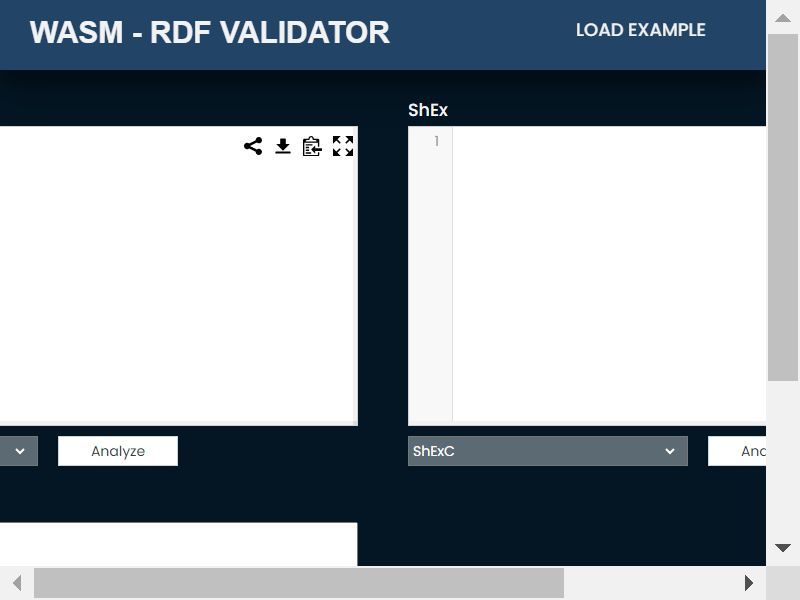
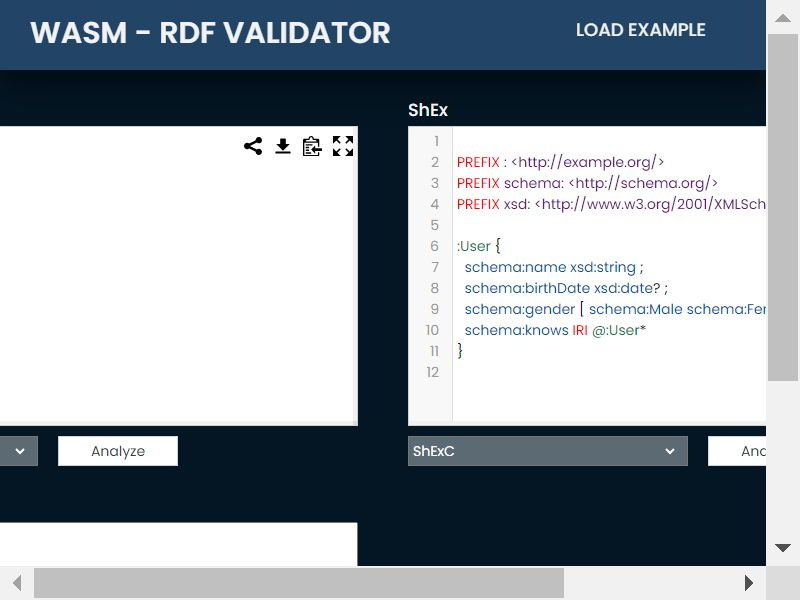
tests base

Changed region(s): [[0.5312, 0.39, 0.9688, 0.63], [0.5625, 0.24, 0.9688, 0.36], [0.0312, 0.03, 0.5, 0.09]]

diff --git a/assembly-rdf-shape/static/index.html b/assembly-rdf-shape/static/index.html
@@ -1,27 +1,61 @@
 <!DOCTYPE html>
 <html lang="en">
-<head>
-    <meta charset="UTF-8">
-    <meta name="viewport" content="width=device-width, initial-scale=1.0">
+  <head>
+    <meta charset="UTF-8" />
+    <meta name="viewport" content="width=device-width, initial-scale=1.0" />
+    <link rel="icon" href="favicon.ico" type="image/x-icon" />
+    <link rel="icon" type="image/jpg" href="logo.jpg" />
     <!-- <link rel="stylesheet" href="https://cdn.jsdelivr.net/npm/bootstrap@4.0.0/dist/css/bootstrap.min.css" integrity="sha384-Gn5384xqQ1aoWXA+058RXPxPg6fy4IWvTNh0E263XmFcJlSAwiGgFAW/dAiS6JXm" crossorigin="anonymous"> -->
-    <link href='https://cdn.jsdelivr.net/npm/yashe/dist/yashe.min.css' rel='stylesheet' type='text/css'/>
-    <script src='https://cdn.jsdelivr.net/npm/yashe/dist/yashe.bundled.min.js'></script>
-    <link href="https://perfectkb.github.io/yate/dist/yate.min.css"
-    rel="stylesheet" type="text/css" />
-    <link href="https://perfectkb.github.io/yate/doc/doc.min.css"
-    rel="stylesheet" type="text/css" />
-    <link href="https://cdn.jsdelivr.net/npm/bootstrap@5.3.3/dist/css/bootstrap.min.css" rel="stylesheet" integrity="sha384-QWTKZyjpPEjISv5WaRU9OFeRpok6YctnYmDr5pNlyT2bRjXh0JMhjY6hW+ALEwIH" crossorigin="anonymous">
+    <link
+      href="https://cdn.jsdelivr.net/npm/yashe/dist/yashe.min.css"
+      rel="stylesheet"
+      type="text/css"
+    />
+    <script src="https://cdn.jsdelivr.net/npm/yashe/dist/yashe.bundled.min.js"></script>
+    <link
+      href="https://perfectkb.github.io/yate/dist/yate.min.css"
+      rel="stylesheet"
+      type="text/css"
+    />
+    <link
+      href="https://perfectkb.github.io/yate/doc/doc.min.css"
+      rel="stylesheet"
+      type="text/css"
+    />
+    <link
+      href="https://cdn.jsdelivr.net/npm/bootstrap@5.3.3/dist/css/bootstrap.min.css"
+      rel="stylesheet"
+      integrity="sha384-QWTKZyjpPEjISv5WaRU9OFeRpok6YctnYmDr5pNlyT2bRjXh0JMhjY6hW+ALEwIH"
+      crossorigin="anonymous"
+    />
     <script src="https://perfectkb.github.io/yate/dist/yate.bundled.min.js"></script>
     <script src="https://perfectkb.github.io/yate/doc/doc.min.js"></script>
-    <script src="https://cdn.jsdelivr.net/npm/bootstrap@5.3.3/dist/js/bootstrap.bundle.min.js" integrity="sha384-YvpcrYf0tY3lHB60NNkmXc5s9fDVZLESaAA55NDzOxhy9GkcIdslK1eN7N6jIeHz" crossorigin="anonymous"></script>
-    <link rel="stylesheet" href="https://cdnjs.cloudflare.com/ajax/libs/font-awesome/5.15.3/css/all.min.css">
-    <script src="https://code.jquery.com/jquery-3.7.1.js" integrity="sha256-eKhayi8LEQwp4NKxN+CfCh+3qOVUtJn3QNZ0TciWLP4=" crossorigin="anonymous"></script>    
-    <link href="https://fonts.googleapis.com/css?family=Roboto:300,400,500" rel="stylesheet">
-    <link href="https://fonts.googleapis.com/css?family=Material+Icons&display=block" rel="stylesheet">
+    <script
+      src="https://cdn.jsdelivr.net/npm/bootstrap@5.3.3/dist/js/bootstrap.bundle.min.js"
+      integrity="sha384-YvpcrYf0tY3lHB60NNkmXc5s9fDVZLESaAA55NDzOxhy9GkcIdslK1eN7N6jIeHz"
+      crossorigin="anonymous"
+    ></script>
+    <link
+      rel="stylesheet"
+      href="https://cdnjs.cloudflare.com/ajax/libs/font-awesome/5.15.3/css/all.min.css"
+    />
+    <script
+      src="https://code.jquery.com/jquery-3.7.1.js"
+      integrity="sha256-eKhayi8LEQwp4NKxN+CfCh+3qOVUtJn3QNZ0TciWLP4="
+      crossorigin="anonymous"
+    ></script>
+    <link
+      href="https://fonts.googleapis.com/css?family=Roboto:300,400,500"
+      rel="stylesheet"
+    />
+    <link
+      href="https://fonts.googleapis.com/css?family=Material+Icons&display=block"
+      rel="stylesheet"
+    />
     <title>WASM -RDFShape</title>
-</head>
-<body>
+  </head>
+  <body>
     <div id="root"></div>
-    <script src="tfgproject.js"></script> 
-</body>
+    <script src="tfgproject.js"></script>
+  </body>
 </html>

diff --git a/assembly-rdf-shape/src/tests/tests_u_1.rs b/assembly-rdf-shape/src/tests/tests_u_1.rs
@@ -1,0 +1,160 @@
+#[cfg(test)]
+mod tests_u_1 {
+    use headless_chrome::Browser;
+    use std::error::Error;
+
+    const E_1: &str = r#"
+PREFIX :       <http://example.org/>
+PREFIX schema: <http://schema.org/>
+PREFIX xsd:    <http://www.w3.org/2001/XMLSchema#>
+PREFIX foaf:   <http://xmlns.com/foaf/0.1/>
+
+:alice schema:name      "Alice" ;
+       schema:gender    schema:Female ;
+       schema:knows     :bob .
+
+:bob   schema:gender    schema:Male ;
+       schema:name      "Robert" ;
+       schema:birthDate "1980-03-10"^^xsd:date .
+"#;
+
+    const E_2: &str = r#"
+PREFIX :       <http://example.org/>
+PREFIX schema: <http://schema.org/>
+PREFIX xsd:    <http://www.w3.org/2001/XMLSchema#>
+PREFIX foaf:   <http://xmlns.com/foaf/0.1/>
+
+:charlie schema:name      "Charlie" ;
+         schema:gender    schema:Male ;
+         schema:knows     :alice .
+
+:alice   schema:gender    schema:Female ;
+         schema:name      "Alice" ;
+         schema:birthDate "1990-04-15"^^xsd:date .
+"#;
+
+    #[test]
+    fn u_1_1() -> Result<(), Box<dyn Error>> {
+        let browser = Browser::default()?;
+        let tab = browser.new_tab()?;
+
+        tab.navigate_to("http://localhost:8000/")?;
+        let selector = "#editors-container";
+        tab.wait_for_element(selector)?;
+
+        tab.evaluate(
+            &format!(
+                r#"
+            window.yasheInstance.setValue(`{}`);
+            "#,
+                E_1.replace("`", "\\`")
+            ),
+            false,
+        )?;
+
+        let remote_object = tab.evaluate(
+            r#"
+            window.yasheInstance.getValue();
+            "#,
+            false,
+        )?;
+
+        match remote_object.value {
+            Some(returned_value) => {
+                assert_eq!(returned_value.as_str().unwrap_or("").trim(), E_1.trim())
+            }
+            _ => unreachable!(),
+        };
+
+        Ok(())
+    }
+
+    #[test]
+    fn u_1_2() -> Result<(), Box<dyn Error>> {
+        let browser = Browser::default()?;
+        let tab = browser.new_tab()?;
+
+        tab.navigate_to("http://localhost:8000/")?;
+        let selector = "#editors-container";
+        tab.wait_for_element(selector)?;
+
+        tab.evaluate(
+            &format!(
+                r#"
+            window.yasheInstance.setValue(`{}`);
+            "#,
+                E_1.replace("`", "\\`")
+            ),
+            false,
+        )?;
+
+        tab.evaluate(
+            &format!(
+                r#"
+            window.yasheInstance.setValue(`{}`);
+            "#,
+                E_2.replace("`", "\\`")
+            ),
+            false,
+        )?;
+
+        let remote_object = tab.evaluate(
+            r#"
+            window.yasheInstance.getValue();
+            "#,
+            false,
+        )?;
+
+        match remote_object.value {
+            Some(returned_value) => {
+                assert_eq!(returned_value.as_str().unwrap_or("").trim(), E_2.trim())
+            }
+            _ => unreachable!(),
+        };
+
+        Ok(())
+    }
+
+    #[test]
+    fn u_1_3() -> Result<(), Box<dyn Error>> {
+        let browser = Browser::default()?;
+        let tab = browser.new_tab()?;
+
+        tab.navigate_to("http://localhost:8000/")?;
+        let selector = "#editors-container";
+        tab.wait_for_element(selector)?;
+
+        tab.evaluate(
+            &format!(
+                r#"
+        window.yasheInstance.setValue(`{}`);
+        "#,
+                E_1.replace("`", "\\`")
+            ),
+            false,
+        )?;
+
+        tab.evaluate(
+            r#"
+        window.yasheInstance.setValue(``);
+        "#,
+            false,
+        )?;
+
+        let remote_object = tab.evaluate(
+            r#"
+        window.yasheInstance.getValue();
+        "#,
+            false,
+        )?;
+
+        match remote_object.value {
+            Some(returned_value) => {
+                assert_eq!(returned_value.as_str().unwrap_or("").trim(), "")
+            }
+            _ => unreachable!(),
+        };
+
+        Ok(())
+    }
+}

diff --git a/assembly-rdf-shape/src/components/header.rs b/assembly-rdf-shape/src/components/header.rs
@@ -50,11 +50,11 @@ impl Component for Header {
                         <div class="logo"><a href="#">{"WASM - RDF VALIDATOR"}</a></div>
                         <ul class="nav-links">
                             <li class="dropdown">
-                                <button class="dropbtn">{"LOAD EXAMPLE"}</button>
+                                <button id="examples-dropdown" class="dropbtn">{"LOAD EXAMPLE"}</button>
                                 <div class="dropdown-content">
-                                    <a class="dropdown-btn" href="#" onclick=self.link.callback(|_| Msg::LoadExample("example1".to_string()))>{"Example 1"}</a>
-                                    <a class="dropdown-btn" href="#" onclick=self.link.callback(|_| Msg::LoadExample("example2".to_string()))>{"Example 2"}</a>
-                                    <a class="dropdown-btn" href="#" onclick=self.link.callback(|_| Msg::LoadExample("example3".to_string()))>{"Example 3"}</a>
+                                    <a id="example-1" class="dropdown-btn" href="#" onclick=self.link.callback(|_| Msg::LoadExample("example1".to_string()))>{"Example 1"}</a>
+                                    <a id="example-2" class="dropdown-btn" href="#" onclick=self.link.callback(|_| Msg::LoadExample("example2".to_string()))>{"Example 2"}</a>
+                                    <a id="example-3" class="dropdown-btn" href="#" onclick=self.link.callback(|_| Msg::LoadExample("example3".to_string()))>{"Example 3"}</a>
                                 </div>
                             </li>
                         </ul>

diff --git a/assembly-rdf-shape/src/app/examples_manager.rs b/assembly-rdf-shape/src/app/examples_manager.rs
@@ -33,13 +33,15 @@ pub struct ExampleData {
 /// * Retorna un error si la solicitud HTTP no se puede completar o si el estado HTTP no es 200.
 /// * Retorna un error si la deserialización del JSON falla.
 pub async fn load_example(file: String) -> Result<ExampleData, String> {
-    let mut public_url = env::var("https://uo271080.github.io/TFG_UO271080/")
-        .unwrap_or("https://uo271080.github.io/TFG_UO271080/".to_string());
-    if !public_url.ends_with('/') {
-        public_url.push('/');
-    }
-    let path = format!("{}static/{}.json", public_url, file);
+    // let mut public_url = env::var("https://uo271080.github.io/TFG_UO271080/")
+    //     .unwrap_or("https://uo271080.github.io/TFG_UO271080/".to_string());
+    // if !public_url.ends_with('/') {
+    //     public_url.push('/');
+    // }
 
+    // let path = format!("{}static/{}.json", public_url, file);
+
+    let path = format!("/static/{}.json", file);
     let response = Request::get(&path)
         .send()
         .await

diff --git a/assembly-rdf-shape/src/components/editors.rs b/assembly-rdf-shape/src/components/editors.rs
@@ -242,6 +242,7 @@ impl Component for Editor {
                     <div class="shapemap-container">
                         <h3 class="title-editor">{"ShapeMap"}</h3>
                         <textarea
+                            id="shapemap-editor"
                             class="shapemap-editor"
                             value=&self.props.shapemap_value
                             oninput=self.link.callback(|e: InputData| Msg::UpdateShapeMapValue(e.value))

diff --git a/assembly-rdf-shape/src/lib.rs b/assembly-rdf-shape/src/lib.rs
@@ -3,6 +3,7 @@ mod app;
 mod components;
 mod test;
 use wasm_bindgen::prelude::*;
+mod tests;
 
 // This is the entry point for the web app
 #[wasm_bindgen]

diff --git a/assembly-rdf-shape/src/tests/tests_i_3.rs b/assembly-rdf-shape/src/tests/tests_i_3.rs
@@ -1,3 +1,4 @@
+#[cfg(test)]
 mod tests_i_3 {
     use headless_chrome::Browser;
     use std::error::Error;

diff --git a/assembly-rdf-shape/src/tests/mod.rs b/assembly-rdf-shape/src/tests/mod.rs
@@ -1,0 +1,2 @@
+mod tests_i_3;
+mod tests_u_1;
